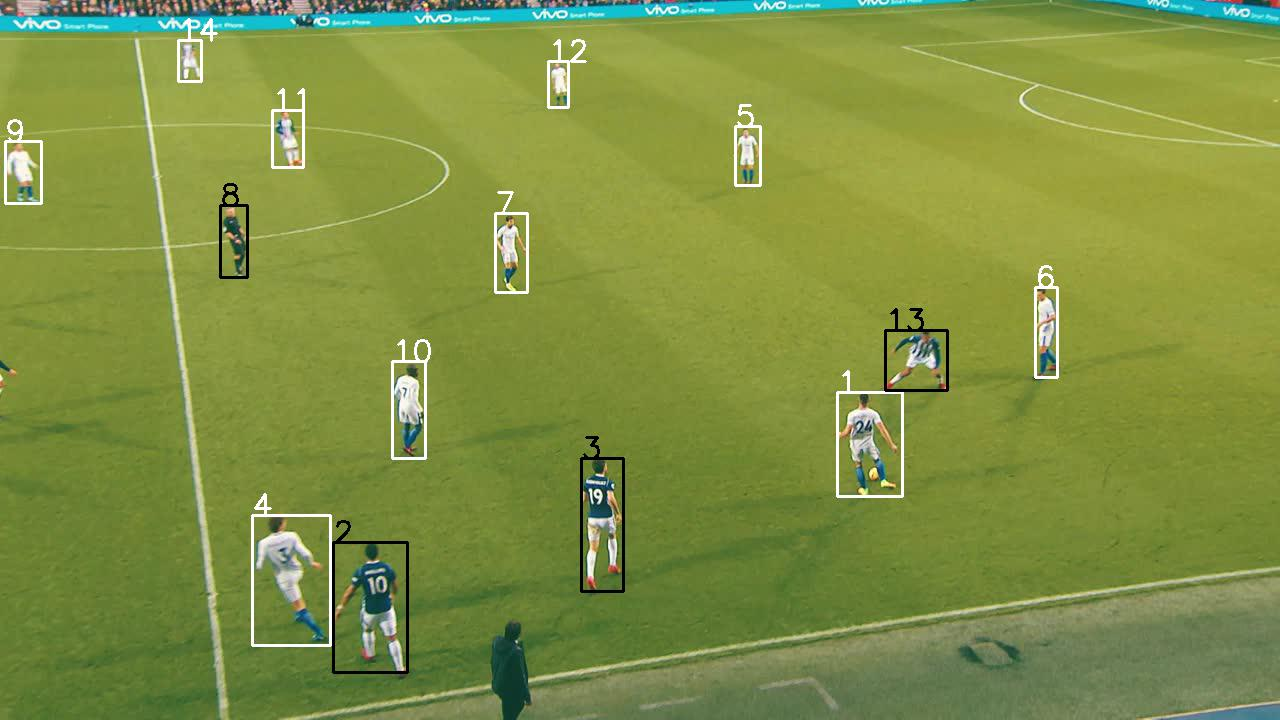
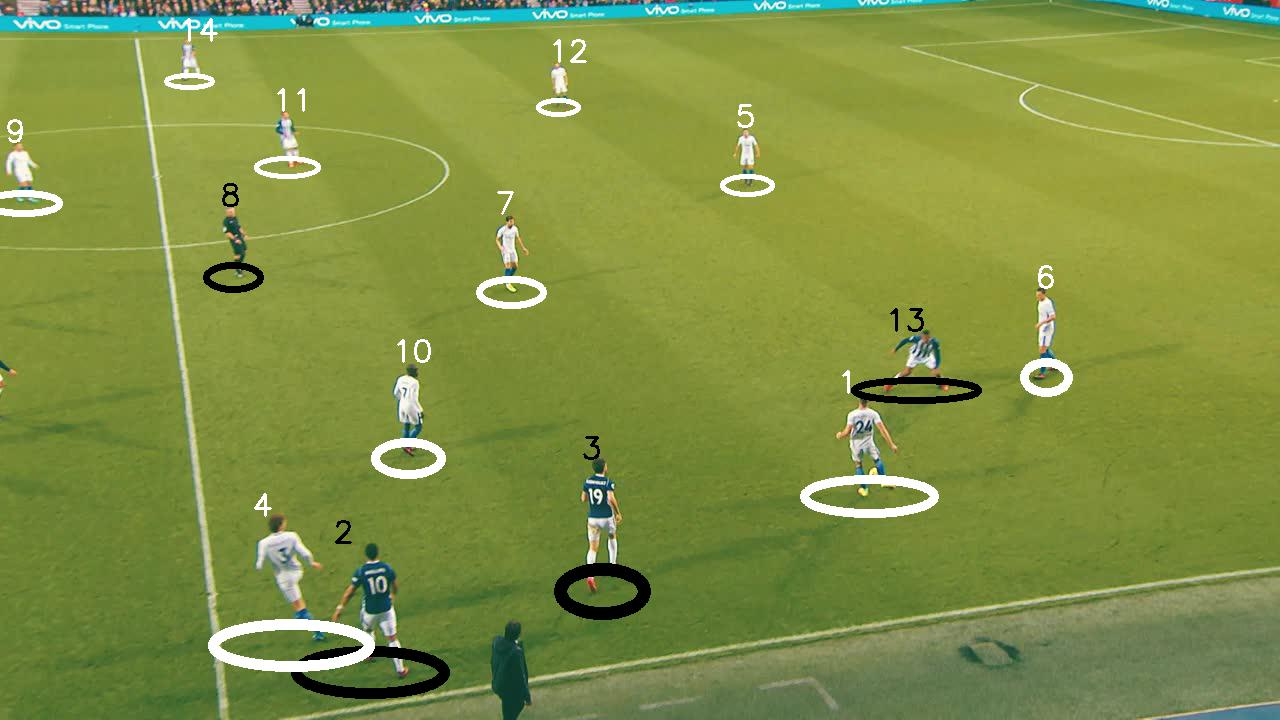
updated drawing to use ellipses

diff --git a/image_utils.py b/image_utils.py
@@ -140,7 +140,11 @@ def draw_player_with_tracks(image_np, tracks, force=False):
         if (not track.is_confirmed() or track.time_since_update > 1) and not force:
             continue
         bbox = track.to_tlbr()
-        cv2.rectangle(image_np, (int(bbox[0]), int(bbox[1])), (int(bbox[2]), int(bbox[3])), classified_colours[track.team_id], 2)
+        center = (int((bbox[2] + bbox[0])/2), int(bbox[3]))
+        axes = (int((bbox[2] - bbox[0])), int((bbox[3] - bbox[1])/6))
+
+        #cv2.rectangle(image_np, (int(bbox[0]), int(bbox[1])), (int(bbox[2]), int(bbox[3])), classified_colours[track.team_id], 2)
+        cv2.ellipse(image_np, center, axes, 0, 0, 360, color=classified_colours[track.team_id], thickness=int(axes[1]/2))
         cv2.putText(image_np, str(track.track_id),(int(bbox[0]), int(bbox[1])),0, 5e-3 * 200, classified_colours[track.team_id], 2)
 
 
